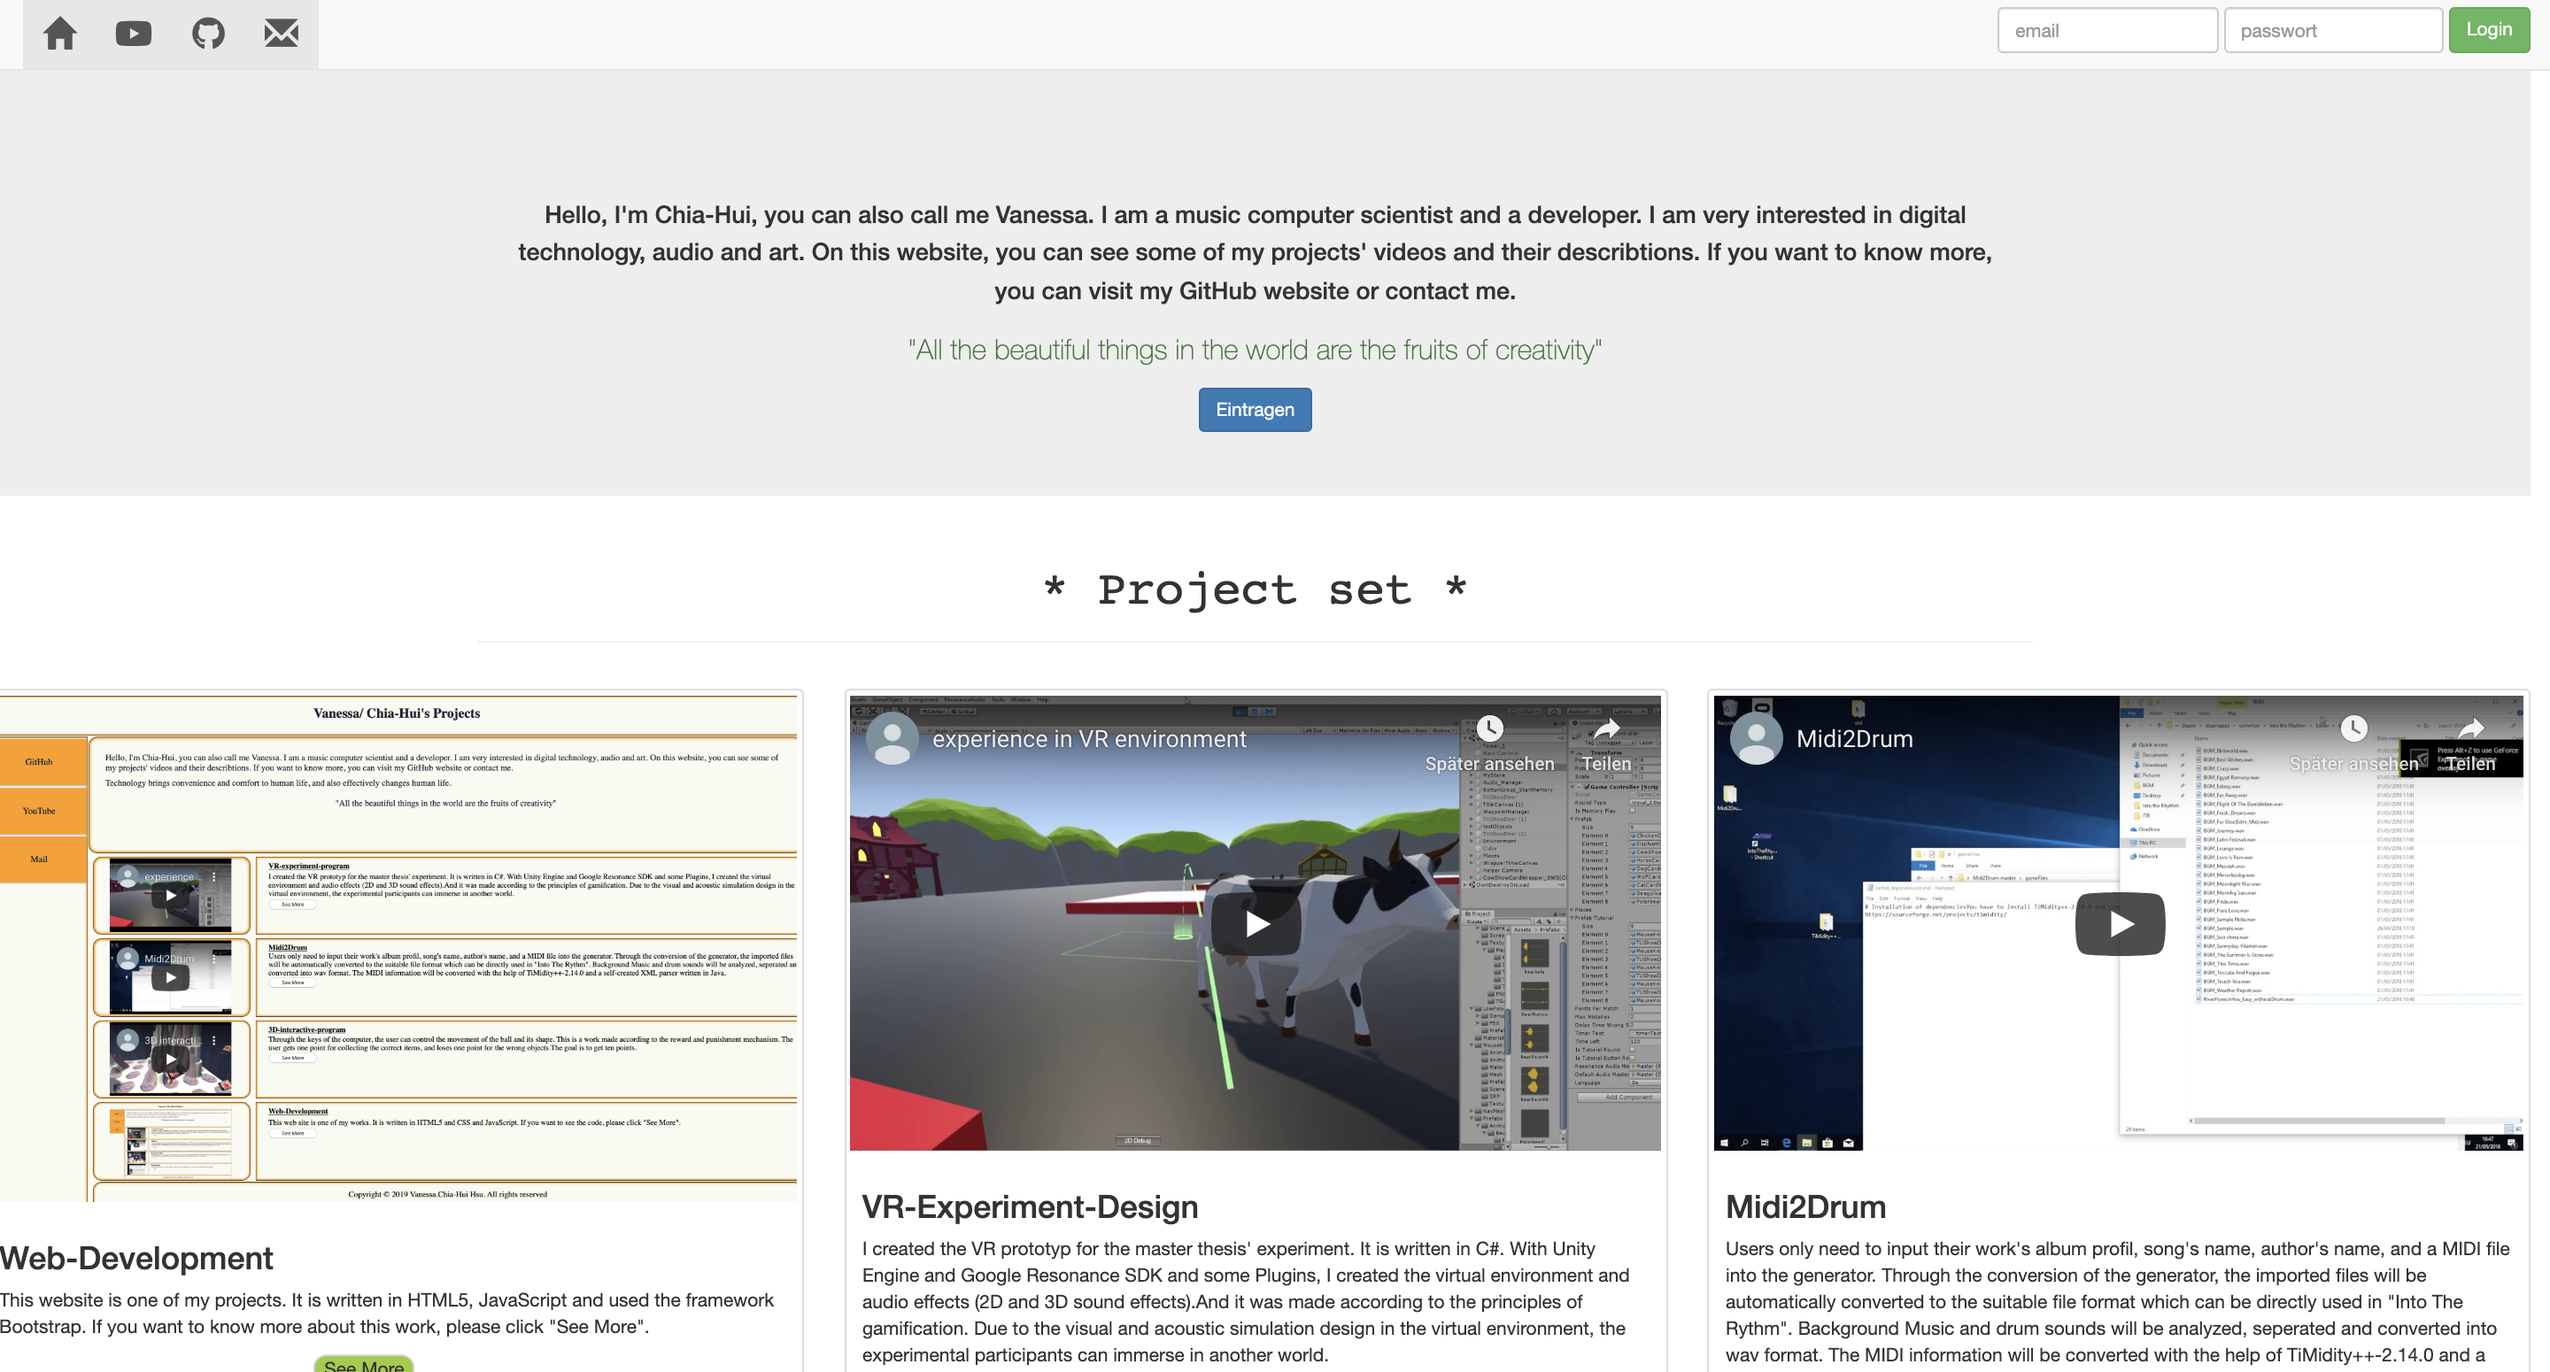
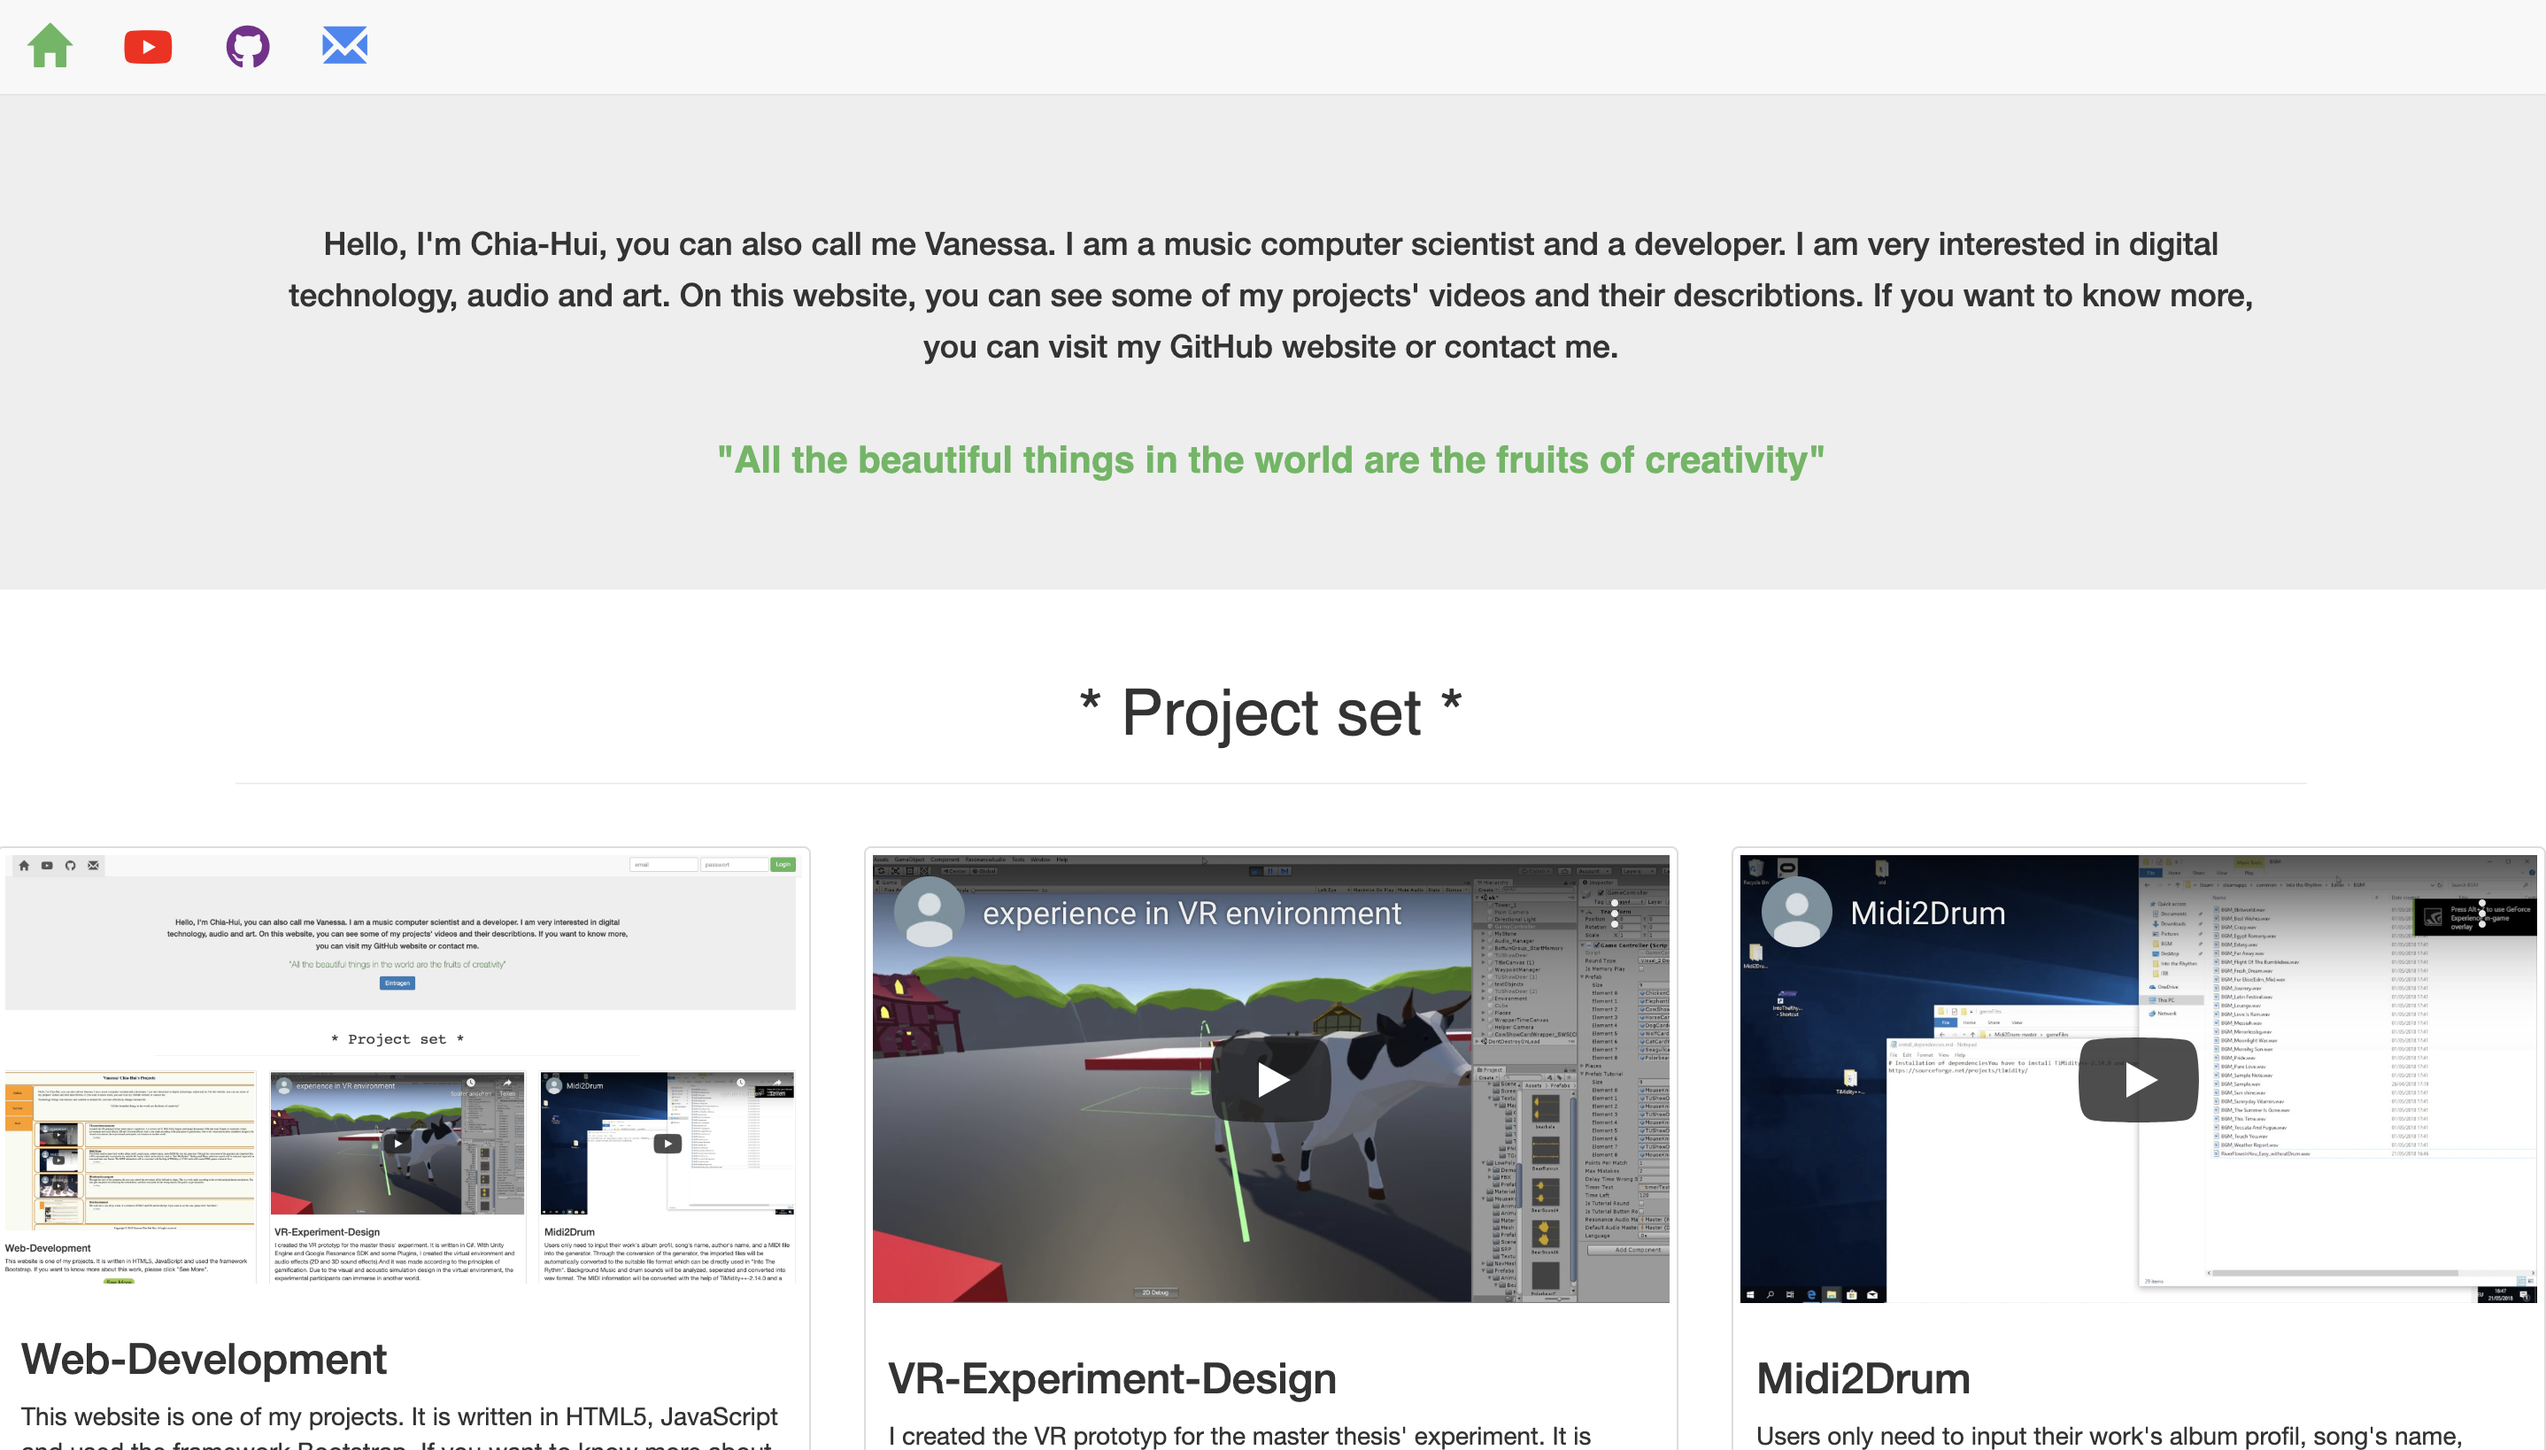
sixth version of the second website design

diff --git a/index.html b/index.html
@@ -14,7 +14,7 @@
         <script src="https://cdn.staticfile.org/popper.js/1.15.0/umd/popper.min.js"></script>
         <script src="https://cdn.staticfile.org/twitter-bootstrap/4.3.1/js/bootstrap.min.js"></script> 
         <script src='https://kit.fontawesome.com/a076d05399.js'></script>
-        <script src='https://kit.fontawesome.com/a076d05399.js'></script>
+      
         <script language="JavaScript">
                 function openWeb() {
                     window.open("https://github.com/MomoVCHH/ChiaHuiHsu");
@@ -68,7 +68,7 @@
              
                 width: 100%; 
             }
-            
+             
 
         </style>
     </head>
@@ -90,7 +90,7 @@
     <!-- Alle Navigationslinks, Formulare und anderer Inhalt werden hier zusammengefasst und können dann ein- und ausgeblendet werden -->
     <div class="collapse navbar-collapse" id="bs-example-navbar-collapse-1">
       <ul class="nav navbar-nav">
-        <li class="collapse navbar-collapse" id="bs-example-navbar-collapse-1" style="font-size: 175%;margin-left: -1.3rem;"> <a href="https://momovchh.github.io/ChiaHuiHsu/";> <span class="glyphicon glyphicon-home" style="color: #5cb85c"></span></a></li>       
+        <li class="collapse navbar-collapse" id="bs-example-navbar-collapse-1" style="font-size: 175%;margin-left: -1.3rem; "> <a href="https://momovchh.github.io/ChiaHuiHsu/";> <span class="glyphicon glyphicon-home" style="color: #5cb85c"></span></a></li>       
             <li class="" style="font-size: 180%"> <a href="https://www.youtube.com/channel/UC_RzLSnXjxbDMmKe7WdmhtA";><span class="glyphicon glyphicon-envelope fab fa-youtube" style="color: #ff0100"></span></a></li>
             
               <li class="" style="font-size: 180%"> <a href="https://github.com/MomoVCHH";><span class="glyphicon glyphicon-envelope fab fa-github" style="color: #7d288e"></span></a></li>
@@ -112,9 +112,8 @@
         
 <div class="jumbotron" id="jumbotron">
     <div class="container" style="margin-top: 5%;text-align:inherit;">
-      <h4>Hello, I'm Chia-Hui, you can also call me Vanessa. I am a music computer scientist and a developer. I am very interested in digital</h4>
-      <h4>technology, audio and art. On this website, you can see some of my projects' videos and their describtions. If you want to know more,</h4> 
-      <h4>you can visit my GitHub website or contact me.</h4>
+      <h4>Hello, I'm Chia-Hui, you can also call me Vanessa. I am a developer and a music computer scientist. On this website, you can see some</h4>
+      <h4> of my projects' videos and their describtions. If you want to know more, you can visit my GitHub website or contact me.</h4>    
       
            <p class="text-success" style="text-align: center;margin-top: 4rem;margin-bottom: 1rem; color: #5cb85c;font-family:sans-serif;"> <b>
             "All the beautiful things in the world are the fruits of creativity"</b></p>
@@ -145,8 +144,8 @@
     <div class="thumbnail">
       <img class="card-img-top" src="https://momovchh.github.io/ChiaHuiHsu/theWeb.png" alt="theWeb">
       <div class="caption">
-        <h3>Web-Development</h3>
-        <p>This website is one of my projects. It is written in HTML5, JavaScript and used the framework Bootstrap. If   you want to know more about this work, please click "See More".</p>
+        <h3 style="text-align: center;">Web-Development</h3>
+        <p>This website is written in HTML5, JavaScript, the framework Bootstrap is used. If you want to know more about this work, please click "See More".</p>
           <form style="margin-bottom: 1.5vh;">
                     <input type="button" value="See More" onclick="openWeb ()"  style="border-radius:1rem;margin-left: 40%;background-color:yellowgreen;">
                     </form>
@@ -162,8 +161,8 @@
                 </div>
       <div class="caption">
            
-        <h3>VR-Experiment-Design</h3>
-        <p>I created the VR prototyp for the master thesis' experiment. It is written in C#. With Unity Engine and Google Resonance SDK and some Plugins, I created the virtual environment and audio effects (2D and 3D sound effects).And it was made according to the principles of gamification. Due to the visual and acoustic simulation design in the virtual environment, the experimental participants can immerse  in another world.</p><br>
+        <h3 style="text-align: center;">VR-Experiment-Design</h3>
+        <p>I created the VR prototyp for the master thesis' experiment. It is written in C#. For develop this work, the Unity Engine and Google Resonance SDK and some Plugins are used. This work contains visual and audio effects (2D and 3D sound effects), it is created based on the gamification principle.Due to the visual and acoustic simulation design in the virtual environment, the experimental participants can immerse in another world.</p><br>
            <form>
                     <input type="button" value="See More" onclick="openWinVR()"  style="border-radius:1rem;margin-left: 40%;background-color:yellowgreen;">
                     </form>
@@ -178,7 +177,7 @@
                 <iframe class="embed-responsive-item" src="https://www.youtube.com/embed/J74XRFN-LnY" allowfullscreen></iframe>
                 </div>
       <div class="caption">
-        <h3>Midi2Drum</h3>
+        <h3 style="text-align: center;">Midi2Drum</h3>
         <p>Users only need to input their work's album profil, song's name, author's name, and a MIDI file into the generator. Through the conversion of the generator, the imported files will be automatically converted to the suitable file format which can be directly used in "Into The Rythm". Background Music and drum sounds will be analyzed, seperated and converted into wav format. The MIDI information will be converted with the help of TiMidity++-2.14.0 and a self-created XML parser written in Java.</p>
           <form>
                     <input type="button" value="See More" onclick="openWinMidi2Drum ()" style="border-radius:1rem;margin-left: 40%;background-color:yellowgreen;">
@@ -194,8 +193,8 @@
                  <iframe class="embed-responsive-item" src="https://www.youtube.com/embed/yLwuNGXhk0s" allowfullscreen></iframe>
                 </div>
       <div class="caption">
-        <h3>2D interactive program</h3>
-        <p>The project is written in C++. The IDE Xcode and the open-source toolkit "open Frameworks" and the addon "Box2d" are needed. The recorded piano sounds are edited and used as sound clips. Users can freely draw golden lines through the computer keyboards so that they can interact with different circular objects
+        <h3 style="text-align: center;">2D interactive program</h3>
+        <p>The project is written in C++. The IDE Xcode and the open-source toolkit "open Frameworks" and the addon "Box2d" are needed. The recorded piano sounds are edited and used as sound clips. Users can freely draw golden lines through the computer keyboards, so they can interact with different circular objects.
        
             </p>
             
@@ -214,8 +213,8 @@
                 </div>
       <div class="caption">
            
-        <h3>3D interactive program</h3>
-        <p>Through the keys of the computer, the user can control the movement of the ball and its shape. This is a work made according to the reward and punishment mechanism. The user gets one point for collecting the correct items, and loses one point for the wrong objects.The goal is to get ten points.</p> <br>
+        <h3 style="text-align: center;">3D interactive program</h3>
+        <p>Through the computer keyboards, the user can control the movement of the ball and its shape. This is a work made according to the reward and punishment mechanism. The user gets one point by the collecting of every right object and loses one point by the collecting of every wrong object. The goal is to get ten points.</p> <br>
            <form>
                     <input type="button" value="See More" onclick="open3DProgram ()"  style="border-radius:1rem;margin-left: 40%;background-color:yellowgreen;">
                     </form>
@@ -230,7 +229,7 @@
                 <iframe class="embed-responsive-item" src="https://www.youtube.com/embed/J74XRFN-LnY" allowfullscreen></iframe>
                 </div>
       <div class="caption">
-        <h3>Midi2Drum</h3>
+        <h3 style="text-align: center;">Midi2Drum</h3>
         <p>Users only need to input their work's album profil, song's name, author's name, and a MIDI file into the generator. Through the conversion of the generator, the imported files will be automatically converted to the suitable file format which can be directly used in "Into The Rythm". Background Music and drum sounds will be analyzed, seperated and converted into wav format. The MIDI information will be converted with the help of TiMidity++-2.14.0 and a self-created XML parser written in Java.</p>
           <form>
                     <input type="button" value="See More" onclick="openWinMidi2Drum ()" style="border-radius:1rem;margin-left: 40%;background-color:yellowgreen;">
